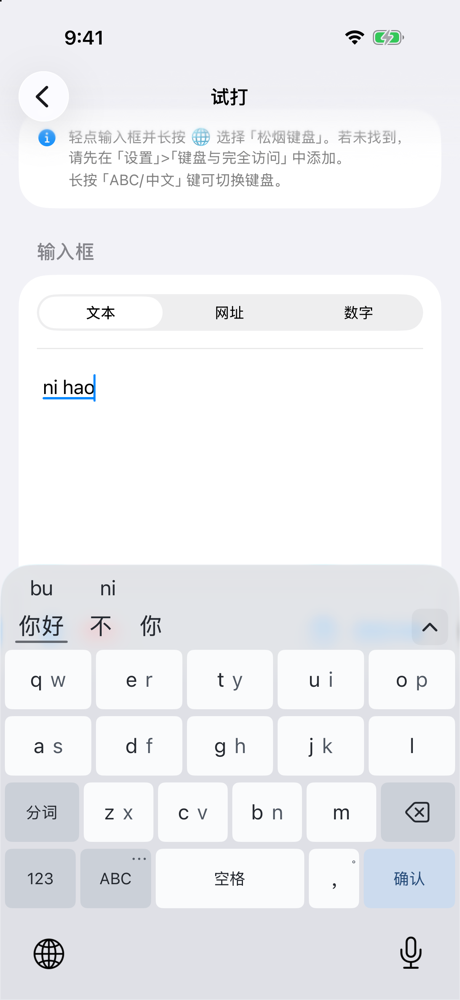
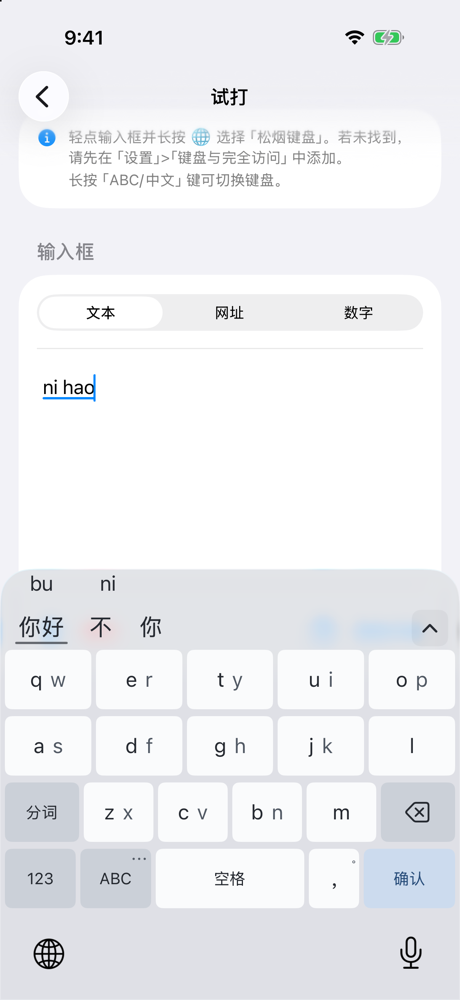
fix(keyboard): take the 10pt host-gap cut off the top only, trim 4pt under the candidates

Changed region(s): [[0.0304, 0.558, 0.9435, 0.651], [0.913, 0.62, 0.9435, 0.651], [0.3043, 0.62, 0.3348, 0.651]]

diff --git a/Packages/CandidateKit/Sources/CandidateKit/KeyboardPanelGeometry.swift b/Packages/CandidateKit/Sources/CandidateKit/KeyboardPanelGeometry.swift
@@ -182,12 +182,14 @@ public extension KeyboardPanelGeometry {
     }
 
     /// Extra height the candidate area gets beyond the configured budget (the configured budget alone leaves it too narrow),
-    /// minus the temporary `hostGapWorkaroundCut`.
-    static let candidateAreaBonus: Double = 16 - hostGapWorkaroundCut
+    /// minus the temporary `hostGapWorkaroundCut`. The candidate text sits low in the band
+    /// (`CandidateReadingRowPolicy.candidateDrop`), so the band is short below the text, not above it.
+    static let candidateAreaBonus: Double = 12 - hostGapWorkaroundCut
     /// TEMPORARY: iOS often adds a 17pt blank band above a third-party keyboard (after switching from a system
     /// keyboard or returning to the app; FB24460699 / FB25094825), which the extension cannot detect. Until Apple
-    /// fixes it, every layout's candidate area gives up 10pt so the keyboard does not look too tall with the band.
-    /// Set back to 0 once the band is gone.
+    /// fixes it, every layout's shell is 10pt shorter and `fit` takes those 10pt off the top of the topmost band
+    /// only, so the keyboard does not look too tall with the band while the candidates keep their place above
+    /// the keys. Set back to 0 once the band is gone.
     static let hostGapWorkaroundCut: Double = 10
     /// How much less candidate-area bonus a definition with a reading row (14-key) gets.
     static let readingLayoutBonusCut: Double = 4
@@ -199,10 +201,43 @@ public extension KeyboardPanelGeometry {
     /// the candidate area, or stays at the top when there is none. When height is short (iOS reused the shorter
     /// height of the previous presentation, e.g. switching from nine-key to 14-key mid-presentation) the reading
     /// row yields height first (down to `CandidateReadingRowPolicy.minimumHeight`), and key height is squeezed only if that is still not enough.
+    ///
+    /// With a candidate area, the page is laid out `hostGapWorkaroundCut` taller and the cut comes off the top of
+    /// the topmost band (`topTrim`), as long as that band keeps room for its text; otherwise (a short shell
+    /// already squeezing the reading row) the page is fitted to the shell as is.
     static func fit(
         shellHeight: Double, candidateHeight: Double, standardKeyHeight: Double,
         readingRowReserved: Bool, candidateAreaReserved: Bool,
         candidateSize: Double = 17, compactReadingRow: Bool = false
+    ) -> KeyboardPanelFit {
+        func layout(_ height: Double) -> KeyboardPanelFit {
+            untrimmedFit(
+                shellHeight: height, candidateHeight: candidateHeight, standardKeyHeight: standardKeyHeight,
+                readingRowReserved: readingRowReserved, candidateAreaReserved: candidateAreaReserved,
+                candidateSize: candidateSize, compactReadingRow: compactReadingRow)
+        }
+        let cut = hostGapWorkaroundCut
+        guard candidateAreaReserved, cut > 0 else { return layout(shellHeight) }
+        let tall = layout(shellHeight + cut)
+        if tall.readingRowHeight > 0 {
+            // The reading text sits low in its row; 4pt under the policy height still clears it.
+            let floor = CandidateReadingRowPolicy.height(reserved: true, compact: compactReadingRow) - 4
+            guard tall.readingRowHeight - cut >= floor else { return layout(shellHeight) }
+            return KeyboardPanelFit(
+                keyHeight: tall.keyHeight, headerHeight: tall.headerHeight, topSlack: tall.topSlack,
+                readingRowHeight: tall.readingRowHeight - cut, topTrim: cut)
+        }
+        let floor = CandidateBarDefinition.Collapsed.effectiveHeight(candidateHeight, candidateSize: candidateSize)
+        guard tall.headerHeight - cut >= floor else { return layout(shellHeight) }
+        return KeyboardPanelFit(
+            keyHeight: tall.keyHeight, headerHeight: tall.headerHeight - cut, topSlack: tall.topSlack,
+            readingRowHeight: 0, topTrim: cut)
+    }
+
+    private static func untrimmedFit(
+        shellHeight: Double, candidateHeight: Double, standardKeyHeight: Double,
+        readingRowReserved: Bool, candidateAreaReserved: Bool,
+        candidateSize: Double, compactReadingRow: Bool
     ) -> KeyboardPanelFit {
         let header =
             candidateAreaReserved
@@ -313,6 +348,10 @@ public struct KeyboardPanelFit: Equatable, Sendable {
     public let topSlack: Double
     /// Actual reading row height (including its share of spare height); 0 when not granted.
     public var readingRowHeight: Double = 0
+    /// How much was cut off the top of the topmost band (reading row, else candidate row) for
+    /// `hostGapWorkaroundCut`: that band lays its content out `topTrim` taller, bottom-aligned,
+    /// so only blank space above the text goes.
+    public var topTrim: Double = 0
 }
 
 /// The exact vertical layout of the panel in a given state (content coordinates, origin = panel top edge).

diff --git a/Packages/CandidateKit/Tests/CandidateKitTests/KeyboardPanelGeometryTests.swift b/Packages/CandidateKit/Tests/CandidateKitTests/KeyboardPanelGeometryTests.swift
@@ -487,7 +487,7 @@ final class KeyboardPanelGeometryTests: XCTestCase {
         let standard = KeyboardPanelGeometry.presentationShellHeight(
             candidateHeight: candidateHeight,
             keyHeight: 54, readingRow: false)
-        XCTAssertEqual(fourteen, 306)
+        XCTAssertEqual(fourteen, 302)
         XCTAssertEqual(
             fourteen - standard, CandidateReadingRowPolicy.height - KeyboardPanelGeometry.readingLayoutBonusCut)
         let reading = CandidateReadingRowPolicy.height
@@ -495,14 +495,16 @@ final class KeyboardPanelGeometryTests: XCTestCase {
         let share = KeyboardPanelGeometry.readingRowSpareShare
         let cut = KeyboardPanelGeometry.readingLayoutBonusCut
         let squeezed = CandidateReadingRowPolicy.minimumHeight
-        // The 14-key shell's spare height (bonus minus its cut); the reading row takes up to `share` of it.
-        let readingSpare = min(share, bonus - cut)
+        // The host-gap cut is laid out and then taken off the top of the topmost band:
+        // the 14-key reading row keeps its `share` of the untrimmed spare height, minus the trim.
+        let trim = KeyboardPanelGeometry.hostGapWorkaroundCut
+        let readingSpare = share - trim
         let cases:
             [(
                 name: String, shell: Double, reading: Bool, candidateArea: Bool, key: Double, header: Double,
                 slack: Double
             )] = [
-                ("14-key shell / 14-key reading row", fourteen, true, true, 54, 40 + bonus - cut - readingSpare, 0),
+                ("14-key shell / 14-key reading row", fourteen, true, true, 54, 40 + bonus + trim - cut - share, 0),
                 ("14-key shell / 26-key", fourteen, false, true, 54, 40 + bonus - cut + reading, 0),
                 (
                     "14-key shell / 123 without candidate area", fourteen, false, false, 54, 0,
@@ -521,6 +523,9 @@ final class KeyboardPanelGeometryTests: XCTestCase {
             XCTAssertEqual(fit.keyHeight, page.key, accuracy: 0.001, "\(page.name) key height")
             XCTAssertEqual(fit.headerHeight, page.header, accuracy: 0.001, "\(page.name) candidate area")
             XCTAssertEqual(fit.topSlack, page.slack, accuracy: 0.001, "\(page.name) top slack")
+            // Only the squeezed reading row (no room above its text) and pages without a candidate area skip the trim.
+            let trimmed = page.candidateArea && !(page.reading && page.shell == standard)
+            XCTAssertEqual(fit.topTrim, trimmed ? trim : 0, "\(page.name) top trim")
             let plan = KeyboardPanelGeometry(
                 candidateHeight: candidateHeight, keyHeight: fit.keyHeight,
                 selectedMainRows: 3, readingRowReserved: page.reading,
@@ -557,7 +562,7 @@ final class KeyboardPanelGeometryTests: XCTestCase {
         let slightlyShort =
             KeyboardPanelGeometry.presentationShellHeight(
                 candidateHeight: 40, keyHeight: 54,
-                readingRow: true) - 8
+                readingRow: true) - 4
         let squeezedOnly = KeyboardPanelGeometry.fit(
             shellHeight: slightlyShort, candidateHeight: 40,
             standardKeyHeight: 54, readingRowReserved: true,
@@ -600,9 +605,8 @@ final class KeyboardPanelGeometryTests: XCTestCase {
         XCTAssertEqual(plan.panelHeight, shell, accuracy: 0.001)
         XCTAssertEqual(
             plan.readingRowHeight,
-            CandidateReadingRowPolicy.compactHeight
-                + min(
-                    KeyboardPanelGeometry.readingRowSpareShare,
-                    KeyboardPanelGeometry.candidateAreaBonus - KeyboardPanelGeometry.readingLayoutBonusCut))
+            CandidateReadingRowPolicy.compactHeight + KeyboardPanelGeometry.readingRowSpareShare
+                - KeyboardPanelGeometry.hostGapWorkaroundCut)
+        XCTAssertEqual(fit.topTrim, KeyboardPanelGeometry.hostGapWorkaroundCut)
     }
 }

diff --git a/Apps/SharedKeyboard/KeyboardPanelView.swift b/Apps/SharedKeyboard/KeyboardPanelView.swift
@@ -85,6 +85,9 @@ public struct KeyboardPanelView: View {
     private let candidateBandHeight: CGFloat?
     private let topSlack: CGFloat
     private let readingRowBandHeight: CGFloat?
+    /// Height cut off the top of the topmost band (`KeyboardPanelFit.topTrim`): that band
+    /// draws its content this much taller, bottom-aligned, so only blank space goes.
+    private let topTrim: CGFloat
     /// Reports eligibility facts (physical definition content) to the host, not heights.
     let onReadingRowReport: ((CandidateReadingRowReport) -> Void)?
     @State var page: KeyboardPage = .letters
@@ -151,6 +154,7 @@ public struct KeyboardPanelView: View {
         candidateBandHeight: CGFloat? = nil,
         topSlack: CGFloat = 0,
         readingRowBandHeight: CGFloat? = nil,
+        topTrim: CGFloat = 0,
         onReadingRowReport: ((CandidateReadingRowReport) -> Void)? = nil
     ) {
         self.controller = controller
@@ -158,6 +162,7 @@ public struct KeyboardPanelView: View {
         self.candidateBandHeight = candidateBandHeight
         self.topSlack = topSlack
         self.readingRowBandHeight = readingRowBandHeight
+        self.topTrim = topTrim
         self.readingRowReserved = readingRowReserved
         self.candidateAreaReserved = candidateAreaReserved
         self.onReadingRowReport = onReadingRowReport
@@ -242,7 +247,9 @@ public struct KeyboardPanelView: View {
     /// The candidate row fills the whole band: the spare height the shell gives it
     /// (`KeyboardPanelGeometry.fit`) is touch budget, and the centred text sits a
     /// little above the keys instead of on their edge.
-    var candidateRowHeight: CGFloat { headerHeight }
+    var candidateRowHeight: CGFloat { headerHeight + headerTopTrim }
+    /// `topTrim` lands on the reading row when there is one, else on the candidate row.
+    var headerTopTrim: CGFloat { layoutPlan.readingRowHeight > 0 ? 0 : topTrim }
 
     // MARK: Candidate area presentation (CandidateKit default renderer; skin injected via environment, no separate palette)
 
@@ -490,8 +497,11 @@ public struct KeyboardPanelView: View {
             // paste shows in the blank area only when strictly idle, without splitting candidate width.
             // Height belongs solely to `CandidateHeaderSurface` (`surfaceHeight == effectiveHeight`).
             // The standalone reading row is granted only for the selected definition and sits above the candidate row; phone structures use the left rail instead.
+            // The topmost band lays out `topTrim` taller and hangs off the top edge: the cut
+            // only removes blank space above its text (`KeyboardPanelFit.topTrim`).
             if plan.readingRowHeight > 0 {
-                readingRow(height: plan.readingRowHeight)
+                readingRow(height: plan.readingRowHeight + Double(topTrim))
+                    .frame(height: CGFloat(plan.readingRowHeight), alignment: .bottom)
             }
             if plan.headerHeight > 0 {
                 compositionArea
@@ -550,6 +560,7 @@ public struct KeyboardPanelView: View {
                             }
                         }
                     }
+                    .frame(height: CGFloat(plan.headerHeight), alignment: .bottom)
             }
             VStack(spacing: 4) {
                 if usesPhoneDefinition && page == .numeric {

diff --git a/Packages/CandidateKit/Sources/CandidateKit/CandidateReadingRow.swift b/Packages/CandidateKit/Sources/CandidateKit/CandidateReadingRow.swift
@@ -37,9 +37,11 @@ public enum CandidateReadingRowPolicy {
         min(textDrop * 2, max(0, rowHeight - minimumHeight))
     }
     /// How far word-candidate text sits below its row center when a reading row is present.
-    public static let candidateDrop: Double = 1
+    /// Half of the 4pt the candidate band gives up below the text (`candidateAreaBonus` 16 → 12),
+    /// so the space above the text stays and only the gap to the keys shrinks.
+    public static let candidateDrop: Double = 3
     /// How far word-candidate text sits below its row center when there is no reading row, closer to the key area.
-    public static let plainCandidateDrop: Double = 1
+    public static let plainCandidateDrop: Double = 3
     public static let candidateLift: Double = 0
 
     /// In landscape (compact height) the shell is shorter: the reading row and font each shrink one step to leave height for key rows.

diff --git a/Packages/CandidateKit/Tests/CandidateKitTests/KeyboardColdEntryLayoutTests.swift b/Packages/CandidateKit/Tests/CandidateKitTests/KeyboardColdEntryLayoutTests.swift
@@ -34,8 +34,8 @@ final class KeyboardColdEntryLayoutTests: XCTestCase {
                 candidateHeight: 44, keyHeight: 54,
                 readingRow: true))
         XCTAssertEqual(
-            fixed, 310, accuracy: 0.01,
-            "44 candidate budget + 2 bonus + 32 reading row + 4x54 key rows (candidate area flush to the top) = 14-key shell height 310"
+            fixed, 306, accuracy: 0.01,
+            "44 candidate budget - 2 (bonus minus cuts) + 32 reading row + 4x54 key rows (candidate area flush to the top) = 14-key shell height 306"
         )
         XCTAssertEqual(
             try measuredHeight(

diff --git a/Apps/SharedKeyboard/KeyboardPanelView+CandidateArea.swift b/Apps/SharedKeyboard/KeyboardPanelView+CandidateArea.swift
@@ -82,7 +82,7 @@ extension KeyboardPanelView {
     /// and only a custom skin covers the content area the product actually owns. The status-detail overlay appears only when explicitly opened.
     var compositionArea: some View {
         CandidateHeaderSurface(
-            height: headerHeight,
+            height: candidateRowHeight,
             backing: appearance.headerBacking
         ) {
             if controller.isEnglishMode && !controller.englishSuggestions.isEmpty && statusMessage == nil {

diff --git a/Packages/CandidateKit/Tests/CandidateKitTests/KeyboardPanelHeightStateTests.swift b/Packages/CandidateKit/Tests/CandidateKitTests/KeyboardPanelHeightStateTests.swift
@@ -50,7 +50,7 @@ final class KeyboardPanelHeightStateTests: XCTestCase {
             readingRowReserved: false, candidateAreaReserved: true)
         XCTAssertEqual(state.panelHeight, first.shellHeight)
         XCTAssertEqual(fit.keyHeight, 54)
-        XCTAssertEqual(fit.headerHeight, 74)
+        XCTAssertEqual(fit.headerHeight, 70)
         state.endPresentation()
         state.beginPresentation(height: next.shellHeight)
         XCTAssertEqual(state.panelHeight, next.shellHeight)

diff --git a/Apps/SharedKeyboard/KeyboardPanelHost.swift b/Apps/SharedKeyboard/KeyboardPanelHost.swift
@@ -423,6 +423,7 @@ public struct KeyboardPanelHost: View {
                 candidateBandHeight: CGFloat(layoutFit.headerHeight),
                 topSlack: CGFloat(layoutFit.topSlack),
                 readingRowBandHeight: CGFloat(layoutFit.readingRowHeight),
+                topTrim: CGFloat(layoutFit.topTrim),
                 onReadingRowReport: { report in
                     latestReadingRowReport = report
                     applyReadingRowReport()
